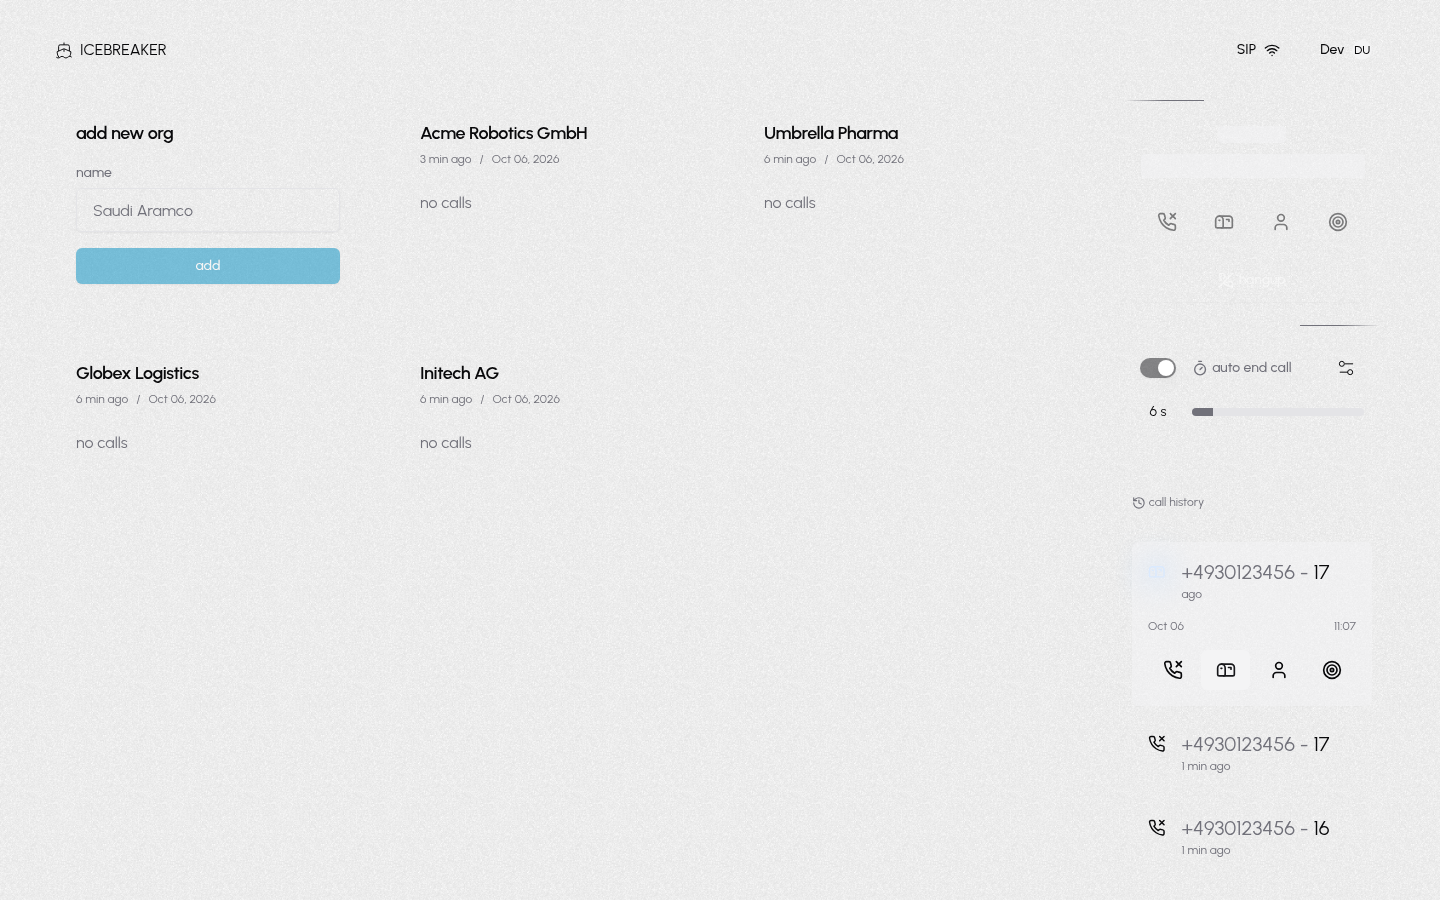
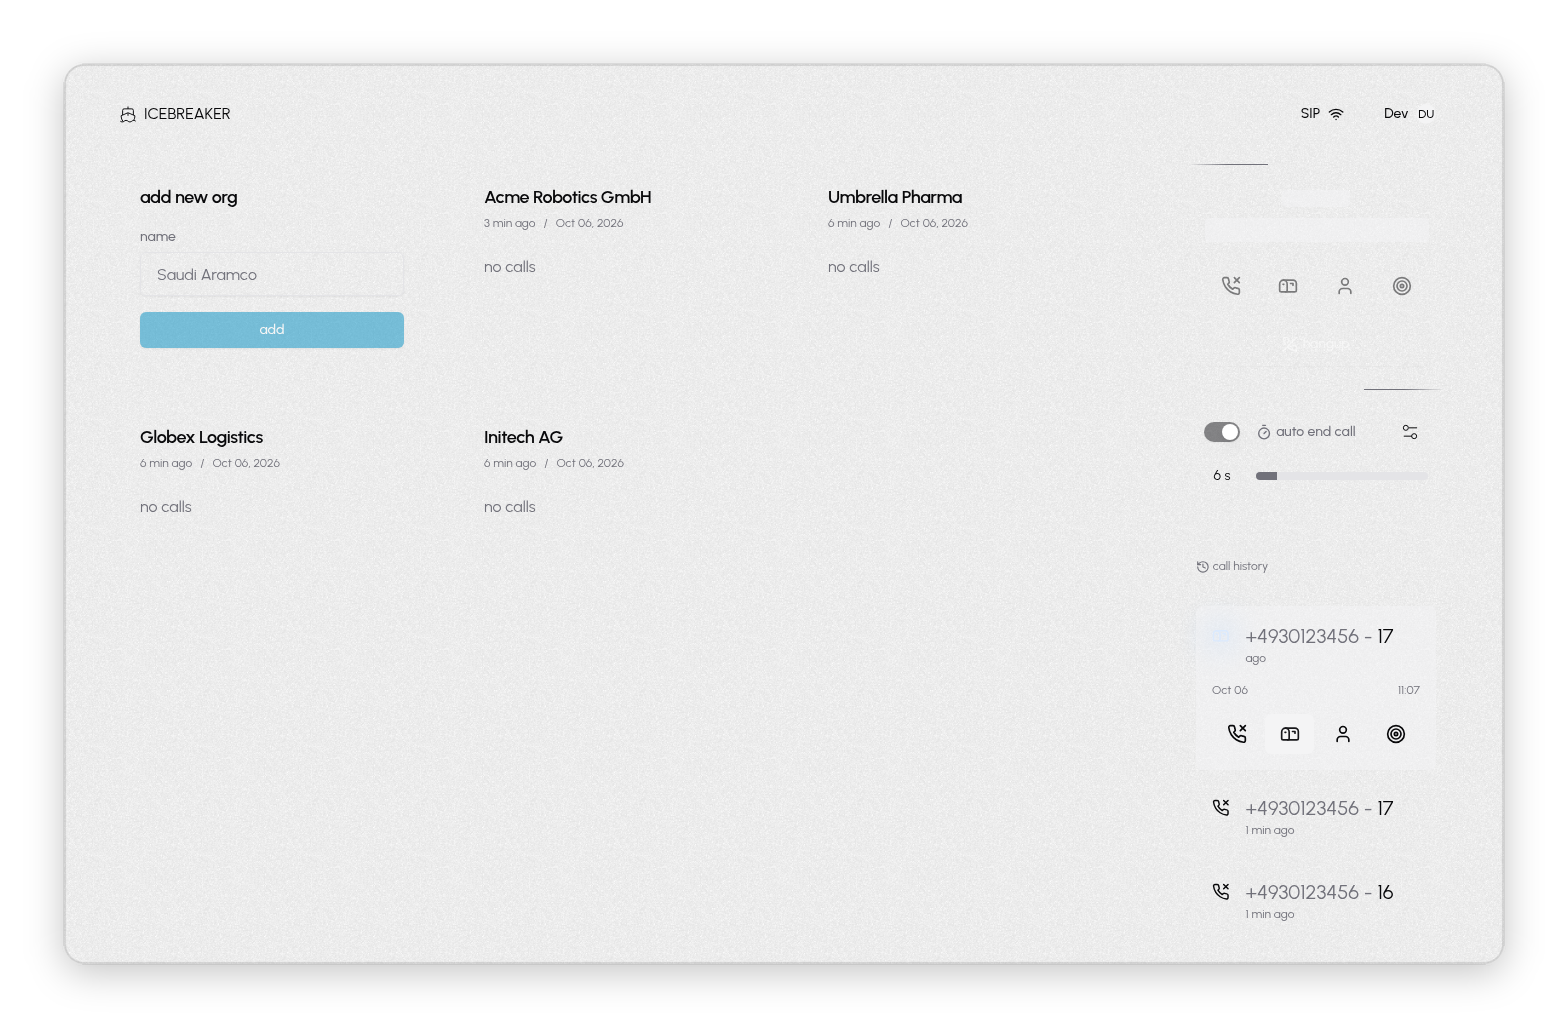
docs: frame README screenshots and GIFs
Rounded corners, a hairline border and a soft shadow, baked into the
images since GitHub strips CSS. docs/media/frame/make-frames.py renders
them from docs/media/raw.

The screenshots get a transparent shadow, so one file per theme as before.
GIF transparency is all or nothing, so each GIF is drawn on GitHub's light
and dark page color and the README picks one with <picture>.

diff --git a/docs/media/frame/make-frames.py b/docs/media/frame/make-frames.py
@@ -1,0 +1,131 @@
+"""Frames the README screenshots and GIFs in docs/media: rounded corners, a
+hairline border and a soft drop shadow.
+
+GitHub strips CSS from READMEs, so the frame has to be part of the image.
+
+- Screenshots: docs/media/raw/*.png -> docs/media/*.png, same name. The
+  shadow is on a transparent background, so one file works on both themes.
+- GIFs: docs/media/raw/<name>.mp4 -> <name>.gif and <name>-dark.gif. GIF
+  transparency is all or nothing, so each GIF is drawn on GitHub's light or
+  dark page color and the README picks one with <picture>.
+
+Run from the repo root:
+  nix-shell -p 'python3.withPackages (p: [p.pillow])' ffmpeg-headless \
+    --run 'python3 docs/media/frame/make-frames.py'
+"""
+
+import os
+import subprocess
+import tempfile
+from pathlib import Path
+
+from PIL import Image, ImageDraw, ImageFilter
+
+MEDIA = Path("docs/media")
+RAW = MEDIA / "raw"
+
+# Sizes for a 1440px wide screenshot; GIFs scale them down with their width.
+RADIUS = 20
+BORDER = 2
+PAD = 64
+BLUR = 18
+OFFSET = 8
+
+THEMES = {
+    # border, shadow opacity, GitHub page color
+    "light": ((0, 0, 0, 28), 60, (255, 255, 255)),
+    "dark": ((255, 255, 255, 30), 150, (13, 17, 23)),
+}
+
+# name, speed-up
+GIFS = [("flow", 1.5), ("ratatatata", 3)]
+GIF_WIDTH = 960
+GIF_FPS = 12
+
+SS = 4  # supersampling for smooth corners
+
+
+def layers(size, theme, k=1.0):
+    """Mask, shadow and border for a card of `size`, on its padded canvas."""
+    border, shadow_alpha, _ = THEMES[theme]
+    w, h = size
+    pad, r = round(PAD * k), RADIUS * k
+    cw, ch = w + 2 * pad, h + 2 * pad
+
+    big = Image.new("L", (cw * SS, ch * SS), 0)
+    box = (pad * SS, pad * SS, (pad + w) * SS - 1, (pad + h) * SS - 1)
+    ImageDraw.Draw(big).rounded_rectangle(box, r * SS, fill=255)
+    mask = big.resize((cw, ch), Image.LANCZOS)
+
+    ring = Image.new("RGBA", (cw * SS, ch * SS), (0, 0, 0, 0))
+    ImageDraw.Draw(ring).rounded_rectangle(box, r * SS, outline=border, width=round(BORDER * k * SS))
+    ring = ring.resize((cw, ch), Image.LANCZOS)
+
+    shadow = Image.new("RGBA", (cw, ch), (0, 0, 0, 0))
+    shadow.putalpha(mask.point(lambda v: v * shadow_alpha // 255))
+    shadow = shadow.transform(shadow.size, Image.AFFINE, (1, 0, 0, 0, 1, -round(OFFSET * k)))
+    shadow = shadow.filter(ImageFilter.GaussianBlur(BLUR * k))
+    return pad, mask, ring, shadow
+
+
+def theme_of(name):
+    return "dark" if name.endswith("-dark") else "light"
+
+
+def frame_png(src):
+    im = Image.open(src).convert("RGBA")
+    pad, mask, ring, shadow = layers(im.size, theme_of(src.stem))
+    card = Image.new("RGBA", mask.size, (0, 0, 0, 0))
+    card.paste(im, (pad, pad))
+    card.putalpha(mask)
+    out = Image.alpha_composite(Image.alpha_composite(shadow, card), ring)
+    out.save(MEDIA / src.name, optimize=True)
+
+
+def frame_gif(name, speed, theme, tmp):
+    """Pads the video with the page color and lays a frame overlay on top.
+
+    The overlay is opaque outside the rounded card and transparent inside it,
+    so the corners blend into the page color the same way the PNGs do.
+    """
+    w, h = GIF_WIDTH, GIF_WIDTH * 900 // 1440
+    pad, mask, ring, shadow = layers((w, h), theme, k=GIF_WIDTH / 1440)
+    page = THEMES[theme][2]
+    overlay = Image.alpha_composite(Image.new("RGBA", mask.size, page + (255,)), shadow)
+    overlay.putalpha(mask.point(lambda v: 255 - v))
+    overlay = Image.alpha_composite(overlay, ring)
+    ov = Path(tmp) / f"{name}-{theme}.png"
+    overlay.save(ov)
+
+    out = MEDIA / (f"{name}-dark.gif" if theme == "dark" else f"{name}.gif")
+    color = "0x%02x%02x%02x" % page
+    video = (
+        f"[0:v]setpts=PTS/{speed},fps={GIF_FPS},scale={w}:{h}:flags=lanczos,format=rgb24,"
+        f"pad={mask.width}:{mask.height}:{pad}:{pad}:color={color}[v];"
+        "[v][1:v]overlay=format=gbrp"
+    )
+    ffmpeg = ["ffmpeg", "-y", "-loglevel", "error", "-i", RAW / f"{name}.mp4", "-i", ov]
+
+    # palettegen can shift the page color by a few levels, which shows as a
+    # box around the GIF. Snap the closest palette entry back to it.
+    pal = Path(tmp) / f"{name}-{theme}-palette.png"
+    subprocess.run([*ffmpeg, "-filter_complex", f"{video},palettegen=max_colors=128", pal], check=True)
+    im = Image.open(pal).convert("RGB")
+    px = list(im.getdata())
+    nearest = min(range(len(px)), key=lambda i: sum((a - b) ** 2 for a, b in zip(px[i], page)))
+    im.putpixel((nearest % im.width, nearest // im.width), page)
+    im.save(pal)
+
+    use = "paletteuse=dither=bayer:bayer_scale=4:diff_mode=rectangle"
+    subprocess.run([*ffmpeg, "-i", pal, "-filter_complex", f"{video}[f];[f][2:v]{use}", out], check=True)
+
+
+for src in sorted(RAW.glob("*.png")):
+    frame_png(src)
+    print(src.name)
+
+with tempfile.TemporaryDirectory() as tmp:
+    for name, speed in GIFS:
+        for theme in THEMES:
+            frame_gif(name, speed, theme, tmp)
+            print(f"{name} {theme}")

diff --git a/README.md b/README.md
@@ -31,7 +31,10 @@
 > This software is provided "as is", without warranty of any kind, express or implied. The authors and contributors accept no liability for any damages, costs, fines, legal claims or other consequences arising from its use or misuse. Nothing in this repository is legal advice. If you are not sure whether your use is lawful, do not use it.
 
 <p align="center">
-  <img src="docs/media/flow.gif" alt="Placing a guess, rating the call and moving to the next extension" width="800">
+  <picture>
+    <source media="(prefers-color-scheme: dark)" srcset="docs/media/flow-dark.gif">
+    <img src="docs/media/flow.gif" alt="Placing a guess, rating the call and moving to the next extension" width="872">
+  </picture>
 </p>
 
 ## How it works
@@ -43,7 +46,10 @@
 5. **Read the stats** to see which ranges of extensions reach real people, and which are dead, mailboxes or hotlines.
 
 <p align="center">
-  <img src="docs/media/ratatatata.gif" alt="ratatatata dialing one extension after another" width="800">
+  <picture>
+    <source media="(prefers-color-scheme: dark)" srcset="docs/media/ratatatata-dark.gif">
+    <img src="docs/media/ratatatata.gif" alt="ratatatata dialing one extension after another" width="872">
+  </picture>
 </p>
 
 ## Screenshots
